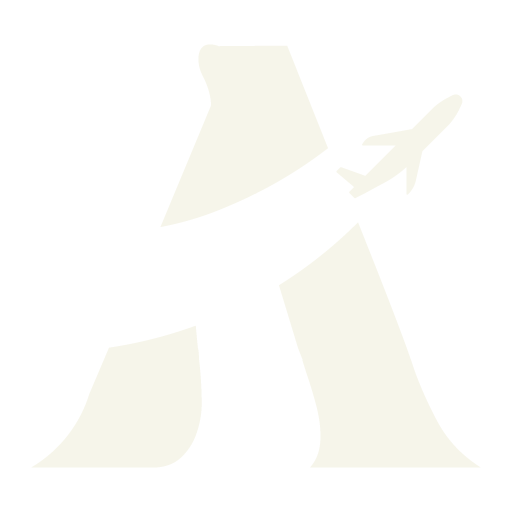
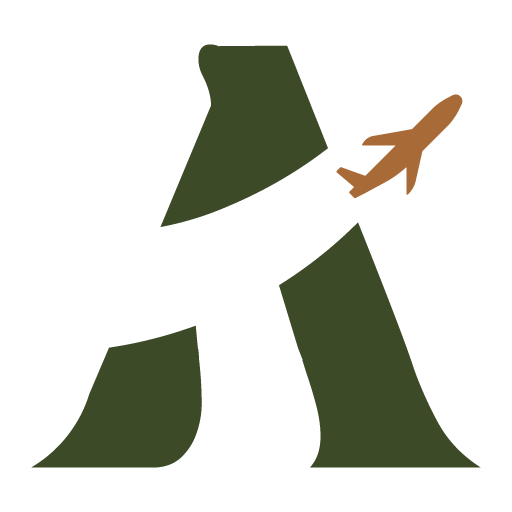
se cambio cosas del manifest

diff --git a/vite.config.js b/vite.config.js
@@ -7,7 +7,7 @@ export default defineConfig({
   plugins: [
     vue(),
     VitePWA({
-      registerType: 'autoUpdate',
+      registerType: "autoUpdate",
       manifest: {
         name: "Arcana",
         short_name: "Arcana",
@@ -15,8 +15,8 @@ export default defineConfig({
           "Arcana es una solución integral para facilitar la planificación de viajes. Permite reservar vuelos y hoteles, planificar itinerarios y descubrir nuevos destinos, todo desde un solo lugar, simplificando el proceso de organización y promoviendo el turismo local.",
         start_url: "/",
         display: "standalone",
-        background_color: "#3C4A28",
-        theme_color: "#788A68",
+        background_color: "#F7F5EB",
+        theme_color: "#3C4A28",
         icons: [
           {
             src: "/icono/icon_192x192.png",
@@ -35,7 +35,7 @@ export default defineConfig({
             sizes: "930x1920",
             type: "image/png",
           },
-        ],        
+        ],
       },
       workbox: {
         runtimeCaching: [

diff --git a/dist/index.html b/dist/index.html
@@ -2,9 +2,10 @@
 <html lang="es">
   <head>
     <meta charset="UTF-8">
-    <link rel="icon" href="img/icono_arcana.png" type="image/png">
+    <link rel="icon" href="img/logo_arcana.png" type="image/png">
     <meta name="viewport" content="width=device-width, initial-scale=1.0">
-    <link rel="manifest" href="/manifest.json" />
+    <link rel="manifest" href="/manifest.json" />
+
     
     <link href="https://cdnjs.cloudflare.com/ajax/libs/font-awesome/5.15.4/css/all.min.css" rel="stylesheet">
 
@@ -14,6 +15,7 @@
     <link rel="stylesheet" crossorigin href="/assets/index-u_weZrNm.css">
   <link rel="manifest" href="/manifest.webmanifest"><script id="vite-plugin-pwa:register-sw" src="/registerSW.js"></script></head>
   <body>
-    <div id="app"></div>
+    <div id="app"></div>
+
   </body>
 </html>
